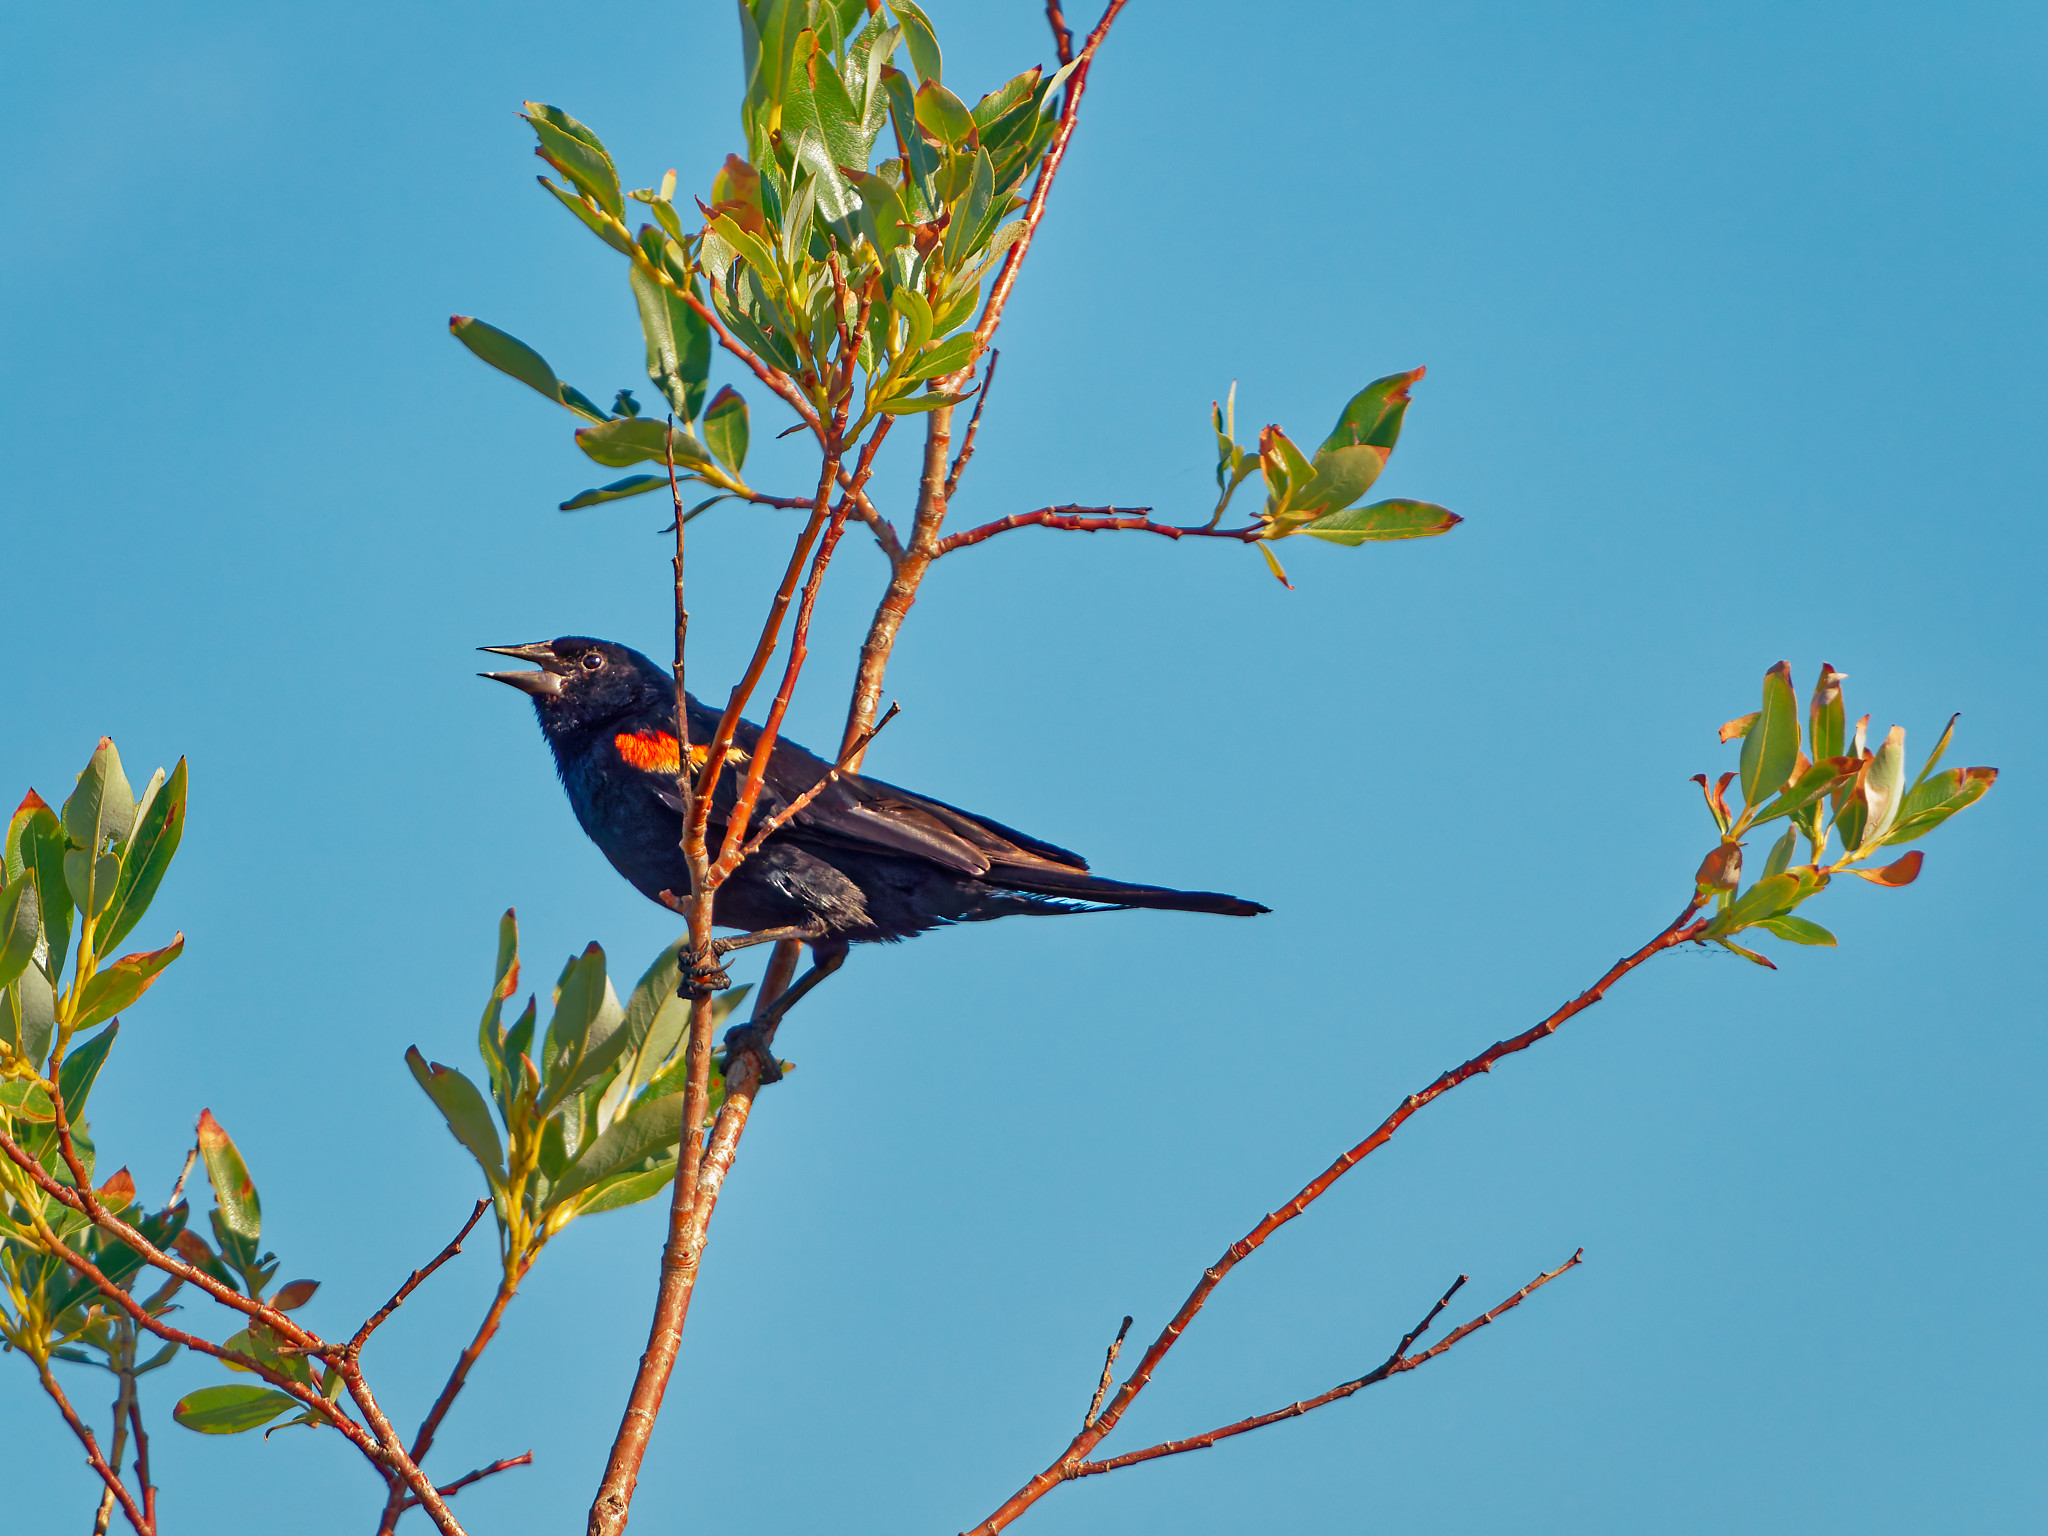
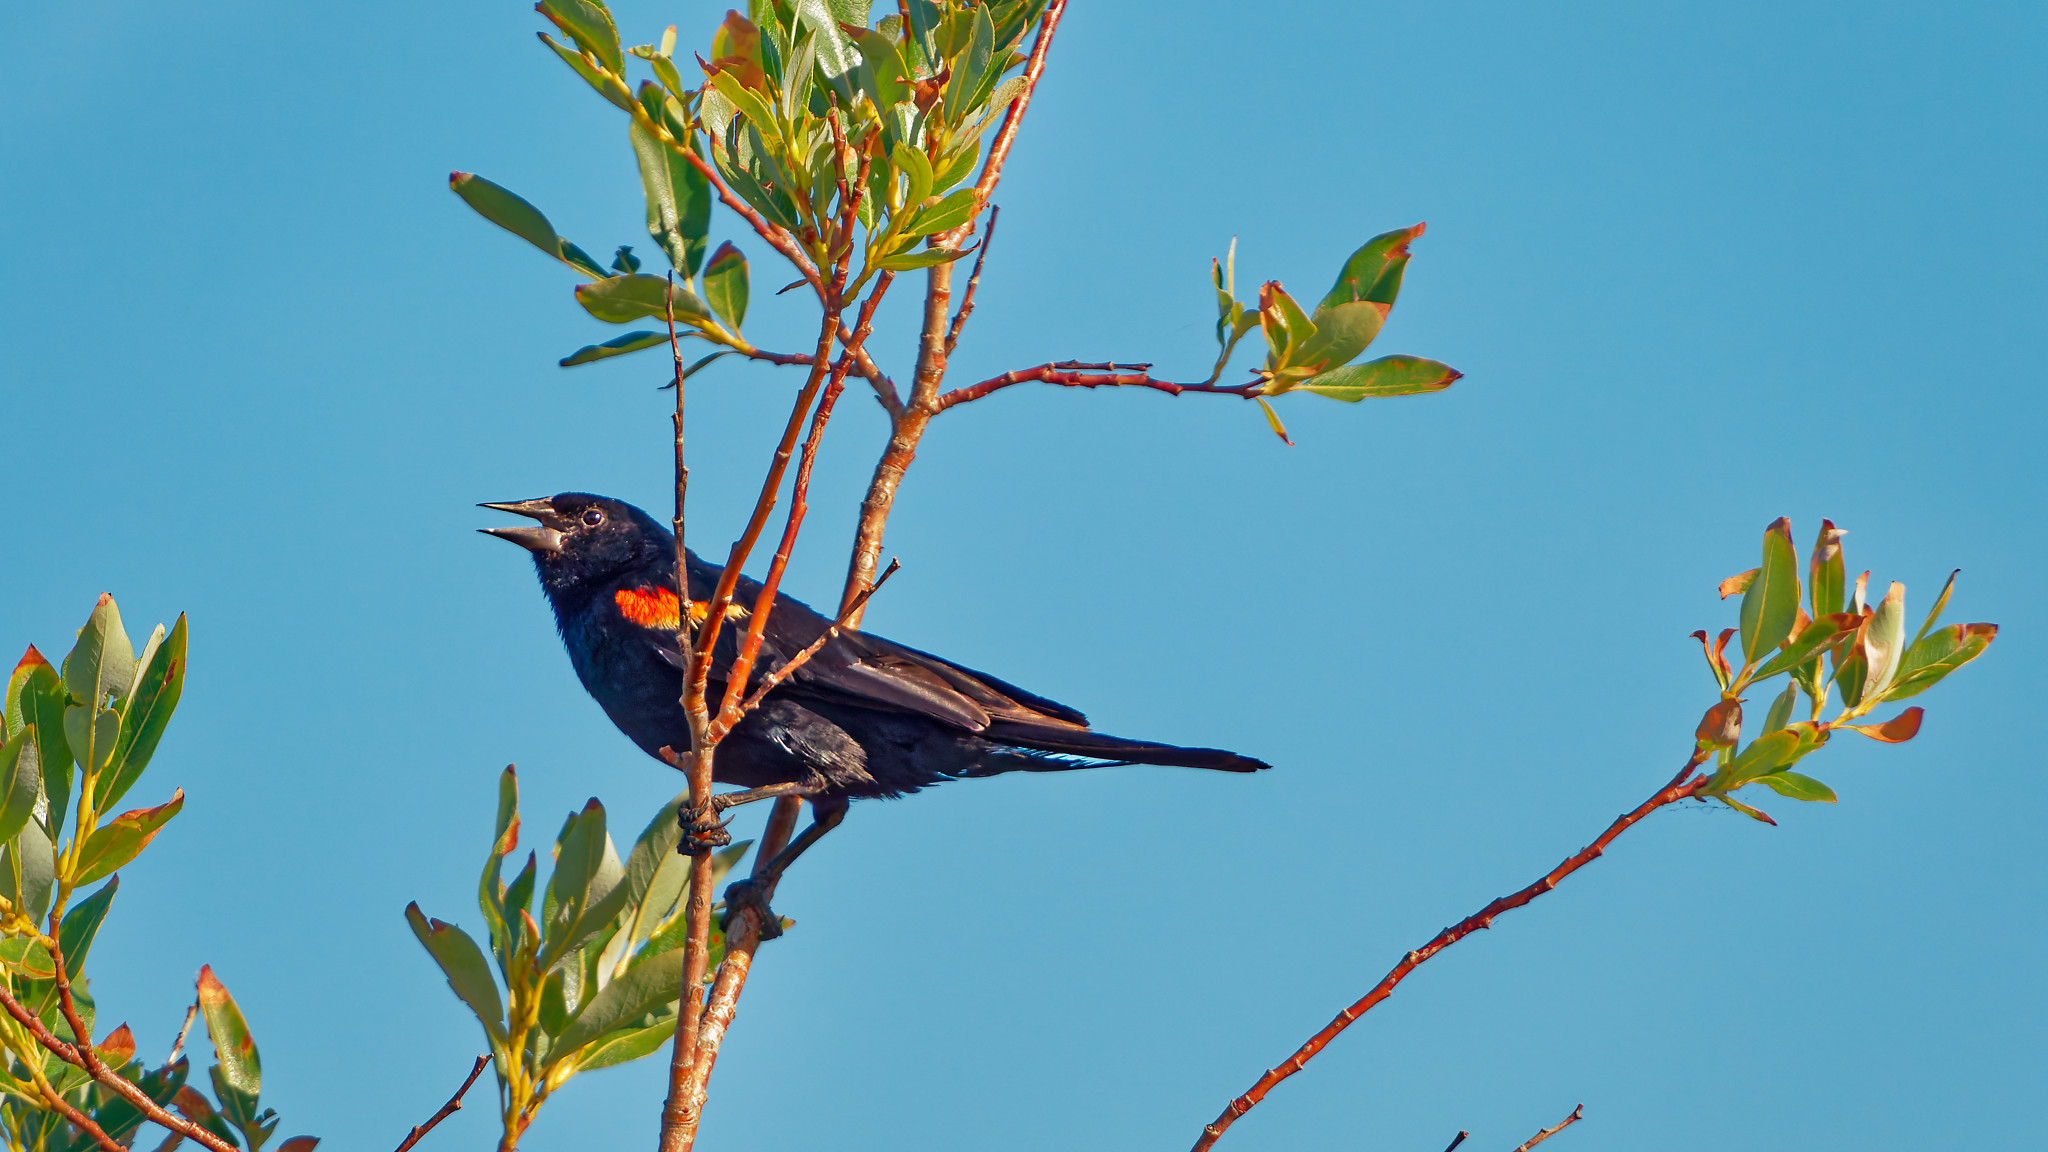
several

diff --git a/src/routes/birds/sandpipers/+page.svelte b/src/routes/birds/sandpipers/+page.svelte
@@ -4,61 +4,65 @@
 	import HomeIcon from '$lib/components/HomeIcon.svelte';
 	import Spacer from '$lib/components/Spacer.svelte';
 	import BirdsDropDown from '$lib/components/BirdsDropDown.svelte';
+	import { count } from '$lib/data/counts.svelte.js';
 
-	let title = 'Coots';
+	let title = 'Sandpipers';
 	let hIndex = $state(0);
 	let vIndex = $state(0);
 
 	// american coot
-	import coot01 from '$lib/images/birds/2026/07/2026-07-13-144412.jpg?enhanced';
-	import coot02 from '$lib/images/birds/2026/07/2026-07-13-144243.jpg?enhanced';
-	import coot03 from '$lib/images/birds/2026/07/2026-07-13-144252.jpg?enhanced';
-	import coot04 from '$lib/images/birds/2026/07/2026-07-13-144457.jpg?enhanced';
-	import coot05 from '$lib/images/birds/2026/07/2026-07-13-144541.jpg?enhanced';
-	import coot06 from '$lib/images/birds/2026/07/2026-07-22-170224.jpg?enhanced';
-	import coot07 from '$lib/images/birds/2026/07/2026-07-29-180634-PR.jpg?enhanced';
+	import s01 from '$lib/images/birds/2026/07/2026-07-22-164146.jpg?enhanced';
+	import s03 from '$lib/images/birds/2026/07/2026-07-22-165105.jpg?enhanced';
+	import s02 from '$lib/images/birds/2026/07/2026-07-22-164934.jpg?enhanced';
+	import s05 from '$lib/images/birds/2026/07/2026-07-22-165919.jpg?enhanced';
+	import s04 from '$lib/images/birds/2026/07/2026-07-22-170138.jpg?enhanced';
+	import s06 from '$lib/images/birds/2026/07/2026-07-22-163630.jpg?enhanced';
+	import s07 from '$lib/images/birds/2026/07/2026-07-22-163720.jpg?enhanced';
 
 	const imagesArray = [
 		[
 			{
-				image: coot01,
+				image: s01,
+				caption: '<strong>Willet</strong>. <br/>Frank Lake, Alberta. July 2026'
+			},
+			{
+				image: s02,
+				caption: '<strong>Willet</strong>. <br/>Frank Lake, Alberta. July 2026'
+			},
+			{
+				image: s03,
 				caption:
-					'Adult <strong>American Coot</strong>. <br/>The coot is not a duck, and does not have webbed feet. <br/>Frank Lake, Alberta. July 2026'
+					"<strong>Willet</strong> (and a juvenile <strong>Wilson's Phalarope</strong>). <br/>Frank Lake, Alberta. July 2026"
+			}
+		],
+		[
+			{
+				image: s07,
+				caption: "Juvenile <strong>Wilson's Phalarope</strong>. <br/>Frank Lake, Alberta. July 2026"
 			},
 			{
-				image: coot02,
-				caption: 'American Coot chick. <br/> Frank Lake, Alberta. July 2026'
-			},
-			{
-				image: coot03,
-				caption: 'American Coot and juvenile. <br/>Frank Lake, Alberta. July 2026'
-			},
-			{
-				image: coot04,
-				caption: 'American Coot and juvenile. <br/>Frank Lake, Alberta. July 2026'
-			},
-			{
-				image: coot05,
-				caption: 'Juvenile American Coot. <br/> Frank Lake, Alberta. July 2026'
-			},
-			{
-				image: coot06,
+				image: s05,
 				caption:
-					'The somewhat unattractive juvenile American Coot. <br/> Frank Lake, Alberta. July 2026'
+					"Juvenile <strong>Wilson's Phalaropes</strong>. <br/>Frank Lake, Alberta. July 2026"
 			},
 			{
-				image: coot07,
-				caption:
-					'Adult American Coot and chick. <br/> Bridlewood Wetlands, Calgary, Alberta. July 2026'
+				image: s06,
+				caption: "Juvenile <strong>Wilson's Phalarope</strong>. <br/>Frank Lake, Alberta. July 2026"
+			},
+			{
+				image: s04,
+				caption: "Juvenile <strong>Wilson's Phalarope</strong>. <br/>Frank Lake, Alberta. July 2026"
 			}
 		]
 	];
+
+	count.sandpipers = imagesArray.length;
 </script>
 
 <div class="container">
 	<div class="top-matter">
 		<HomeIcon fontSize="clamp(10px, 1.75vw, 20px)" linked="true" />
-		<div class="bird-type">{title}</div>
+		<div class="bird-type">{title}, etc. ({count.sandpipers})</div>
 		<Spacer fontSize="clamp(10px, 1.75vw, 20px)" />
 		<BirdsDropDown />
 	</div>

diff --git a/src/routes/birds/gulls/+page.svelte b/src/routes/birds/gulls/+page.svelte
@@ -6,56 +6,29 @@
 	import BirdsDropDown from '$lib/components/BirdsDropDown.svelte';
 	import { count } from '$lib/data/counts.svelte.js';
 
-	let title = 'Blackbirds, etc.';
+	let title = 'Gulls and Terns';
 	let hIndex = $state(0);
 	let vIndex = $state(0);
 
 	// american coot
-	import bb01 from '$lib/images/birds/2026/07/2026-07-13-145838-PR.jpg?enhanced';
-	import bb02 from '$lib/images/birds/2026/07/2026-07-22-171219.jpg?enhanced';
-	import bb03 from '$lib/images/birds/2026/07/2026-07-22-171239.jpg?enhanced';
-	import bb04 from '$lib/images/birds/2026/07/2026-07-13-150819-PR.jpg?enhanced';
-	import bb05 from '$lib/images/birds/2026/07/2026-07-29-181919-PR.jpg?enhanced';
-	import bb06 from '$lib/images/birds/2026/07/2026-07-29-181845-PR.jpg?enhanced';
+	import g01 from '$lib/images/birds/2026/07/2026-07-22-164955.jpg?enhanced';
 
 	const imagesArray = [
 		[
 			{
-				image: bb01,
-				caption: '<strong>Yellow-headed Blackbird</strong>. <br/>Frank Lake, Alberta. July, 2026'
-			},
-			{
-				image: bb02,
-				caption: '<strong>Yellow-headed Blackbird</strong>. <br/>Frank Lake, Alberta. July, 2026'
-			},
-			{
-				image: bb03,
-				caption: '<strong>Yellow-headed Blackbird</strong>. <br/>Frank Lake, Alberta. July, 2026'
-			}
-		],
-		[
-			{
-				image: bb04,
-				caption: '<strong>Red-winged Blackbird</strong>. <br/>Frank Lake, Alberta. July, 2026'
-			},
-			{
-				image: bb05,
-				caption: '<strong>Red-winged Blackbird</strong>. <br/>Frank Lake, Alberta. July, 2026'
-			},
-			{
-				image: bb06,
-				caption: '<strong>Red-winged Blackbird</strong>. <br/>Frank Lake, Alberta. July, 2026'
+				image: g01,
+				caption: "Juvenile <strong>Bonaparte's Gull</strong> <br/>Frank Lake, Alberta. July, 2026"
 			}
 		]
 	];
 
-	count.blackbirds = imagesArray.length;
+	count.gulls = imagesArray.length;
 </script>
 
 <div class="container">
 	<div class="top-matter">
 		<HomeIcon fontSize="clamp(10px, 1.75vw, 20px)" linked="true" />
-		<div class="bird-type">{title} ({count.blackbirds})</div>
+		<div class="bird-type">{title} ({count.egrets})</div>
 		<Spacer fontSize="clamp(10px, 1.75vw, 20px)" />
 		<BirdsDropDown />
 	</div>

diff --git a/src/routes/birds/+page.svelte b/src/routes/birds/+page.svelte
@@ -62,7 +62,7 @@
 				Eagles, Hawks and Kites ({count.eagles})
 			</div>
 		</a>
-		<a href="/birds/cormorants">
+		<a href="/birds/egrets">
 			<div class="photo-link">
 				<enhanced:img src={egret} alt="egret" />
 				Egrets and Herons ({count.egrets})
@@ -74,7 +74,7 @@
 				Finches ({count.finches})
 			</div>
 		</a>
-		<a href="/birds/sandpipers">
+		<a href="/birds/gulls">
 			<div class="photo-link">
 				<enhanced:img src={tern} alt="tern" />
 				Gulls and Terns ({count.gulls})
@@ -104,7 +104,7 @@
 				Pelicans ({count.pelicans})
 			</div>
 		</a>
-		<a href="/birds/cormorants">
+		<a href="/birds/plovers">
 			<div class="photo-link">
 				<enhanced:img src={plover} alt="plover" />
 				Plovers ({count.plovers})
@@ -113,10 +113,10 @@
 		<a href="/birds/sandpipers">
 			<div class="photo-link">
 				<enhanced:img src={sandpiper} alt="sandpiper" />
-				Sandpipers(willet) ({count.sandpipers})
+				Sandpipers ({count.sandpipers})
 			</div>
 		</a>
-		<a href="/birds/sandpipers">
+		<a href="/birds/stilts">
 			<div class="photo-link">
 				<enhanced:img src={stilt} alt="stilt" />
 				Stilts ({count.stilts})

diff --git a/src/lib/components/BirdsDropDown.svelte b/src/lib/components/BirdsDropDown.svelte
@@ -52,6 +52,9 @@
 				<a href="/birds/grebes">Grebes ({count.grebes})</a>
 			</li>
 			<li>
+				<a href="/birds/gulls">Gulls and Terns ({count.gulls})</a>
+			</li>
+			<li>
 				<a href="/birds/ibises">Ibises ({count.ibises})</a>
 			</li>
 			<li>
@@ -72,9 +75,7 @@
 			<li>
 				<a href="/birds/stilts">Stilts and Avocets ({count.stilts})</a>
 			</li>
-			<li>
-				<a href="/birds/terns">Terns and Gulls ({count.terns})</a>
-			</li>
+
 			<li>
 				<a href="/birds/waxwings">Waxwings ({count.waxwings})</a>
 			</li>

diff --git a/src/lib/components/NavigationController.svelte b/src/lib/components/NavigationController.svelte
@@ -54,8 +54,8 @@
 	}
 	.controls {
 		position: absolute;
-		width: 8vh;
-		height: 8vh;
+		width: clamp(2rem, 7vh, 3rem);
+		height: clamp(2rem, 7vh, 3rem);
 		bottom: 5vh;
 		right: 3vh;
 	}
@@ -89,7 +89,7 @@
 		/* color: red; */
 		cursor: pointer;
 		border: none;
-		font-size: clamp(12px, 3.5vh, 30px);
+		font-size: clamp(20px, 3.5vh, 30px);
 		margin: 0;
 		outline: inherit;
 		padding: 0;

diff --git a/src/routes/+page.svelte b/src/routes/+page.svelte
@@ -17,7 +17,7 @@
 			<a href="/birds">
 				<div class="photo-link">
 					<enhanced:img src={homeBird} alt="where are you" />
-					A few bird photos...
+					Bird photos...
 				</div>
 			</a>
 

diff --git a/src/lib/styling/app.css b/src/lib/styling/app.css
@@ -2,6 +2,7 @@ html,
 body {
 	box-sizing: border-box;
 	margin: 0;
+	overflow-y: hidden;
 	padding: 0;
 }
 
